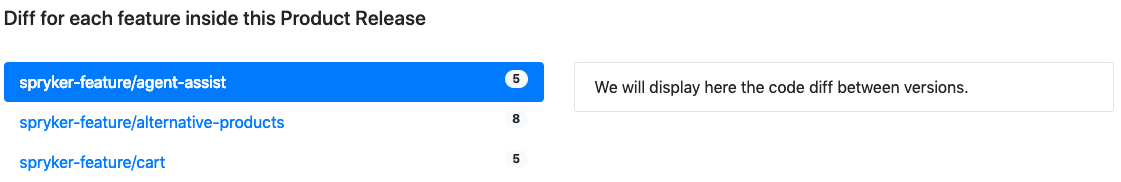
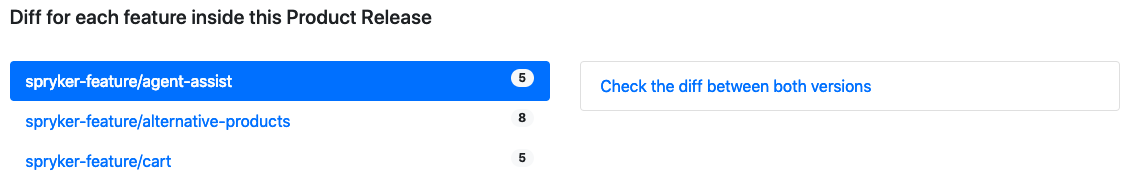
Add link to the compare github page for spryker-feature

diff --git a/index.js b/index.js
@@ -244,7 +244,7 @@ function contentForTabs(composerLock, currentModules, content) {
                                         </div>
                                         <h5 class="section-in-release">Diff for each feature inside this Product Release</h5>
                                         <div class="row">
-                                            ${groupModulesByFeature(cur)}
+                                            ${groupModulesByFeature(composerLock, cur)}
                                         </div>
                                     </div>`)
     )(content);
@@ -309,7 +309,7 @@ function templateForModulesThatNeedMigration(listOfModules) {
             </div>`;
 }
 
-function groupModulesByFeature(productRelease) {
+function groupModulesByFeature(currentComposerLock, productRelease) {
     function leftPills(productRelease) {
         const lengthForFeature = R.compose(
             R.length,
@@ -332,12 +332,13 @@ function groupModulesByFeature(productRelease) {
                 </a>`, R.prop('featuresToMigrate', productRelease)));
     }
 
-    function listGroupForFeature(featureVersions) {
+    function listGroupForFeature(currentComposerLock, featureVersions) {
         return R.compose(
-            () => `<li class="list-group-item d-flex justify-content-between align-items-center">
-                            We will display here the code diff between versions.
-                        </li>`,
-            R.find(R.propEq('name', R.prop('name', productRelease)))
+            cur => `<li class="list-group-item d-flex justify-content-between align-items-center">
+                        <a href="https://github.com/${R.path(['data', 'composer', 'name'], cur)}/compare/${R.prop('installedVersion', cur)}%E2%80%A6${R.prop('name', cur)}" target="_blank">Check the diff between both versions</a>
+                    </li>`,
+            cur => R.assoc('installedVersion', findInstalledFeatureByName(currentComposerLock, R.path(['data', 'composer', 'name'], cur)), cur),
+            R.find(R.propEq('name', R.prop('name', productRelease))),
         )(featureVersions);
     }
 
@@ -345,7 +346,7 @@ function groupModulesByFeature(productRelease) {
         return R.join('', mapIndexed((cur, index) =>
             `<div class="tab-pane fade ${isShow(index)} ${isActive(index)}" id="v-pills-${properName('/', 'module', cur)}" role="tabpanel" aria-labelledby="v-pills-${properName('/', 'module', cur)}-tab">
                     <ul class="list-group">
-                        ${listGroupForFeature(R.path(['package', 'feature_versions'], cur))}
+                        ${listGroupForFeature(currentComposerLock, R.path(['package', 'feature_versions'], cur))}
                     </ul>
                 </div>`, R.prop('featuresToMigrate', productRelease)));
     }
@@ -360,6 +361,10 @@ function groupModulesByFeature(productRelease) {
                     ${rightPills(productRelease)}
                 </div>
             </div>`;
+}
+
+function findInstalledFeatureByName(currentComposerLock, featureName) {
+    return R.prop('version', R.find(R.propEq('name', featureName), R.prop('packages', currentComposerLock)));
 }
 
 

diff --git a/index.html b/index.html
@@ -58,10 +58,10 @@
         <script type="text/javascript" src="index.js"></script> <!-- Expose analyseMigrationToNextProductReleases and analyseMigrationToNextModulesMajors properties -->
         <script type="text/javascript">
             // Analize migrations needed for spryker-feature packages. Uncomment the line below after completing installation steps
-            //analyseMigrationToNextProductReleases('listOfProductReleases', myComposerJSON, myComposerLOCK, releaseFeatures, releaseModules);
+            analyseMigrationToNextProductReleases('listOfProductReleases', composer3, composerLock3, releaseFeatures, releaseModules);
 
             // Analize migrations needed for spryker packages. Uncomment the line below after completing installation steps
-            //analyseMigrationToNextModulesMajors('listOfModules', myComposerJSON, myComposerLOCK, releaseModules);
+            analyseMigrationToNextModulesMajors('listOfModules', composer3, composerLock3, releaseModules);
 
         </script>
     </body>

diff --git a/README.md b/README.md
@@ -31,7 +31,7 @@ You will see 3 parts for each Product Releases:
 
 ![All migrations for all the modules that are part of the Product Release](assets/product-release-migration-guides.png)
 
-2. For each `spryker-feature` you will see the diff with the previous Product Release
+2. For each `spryker-feature` you will see a link to compare the diff between your version and the new version
 
 ![Diff for each spryker-feature](assets/product-release-diff-features.png)
 
